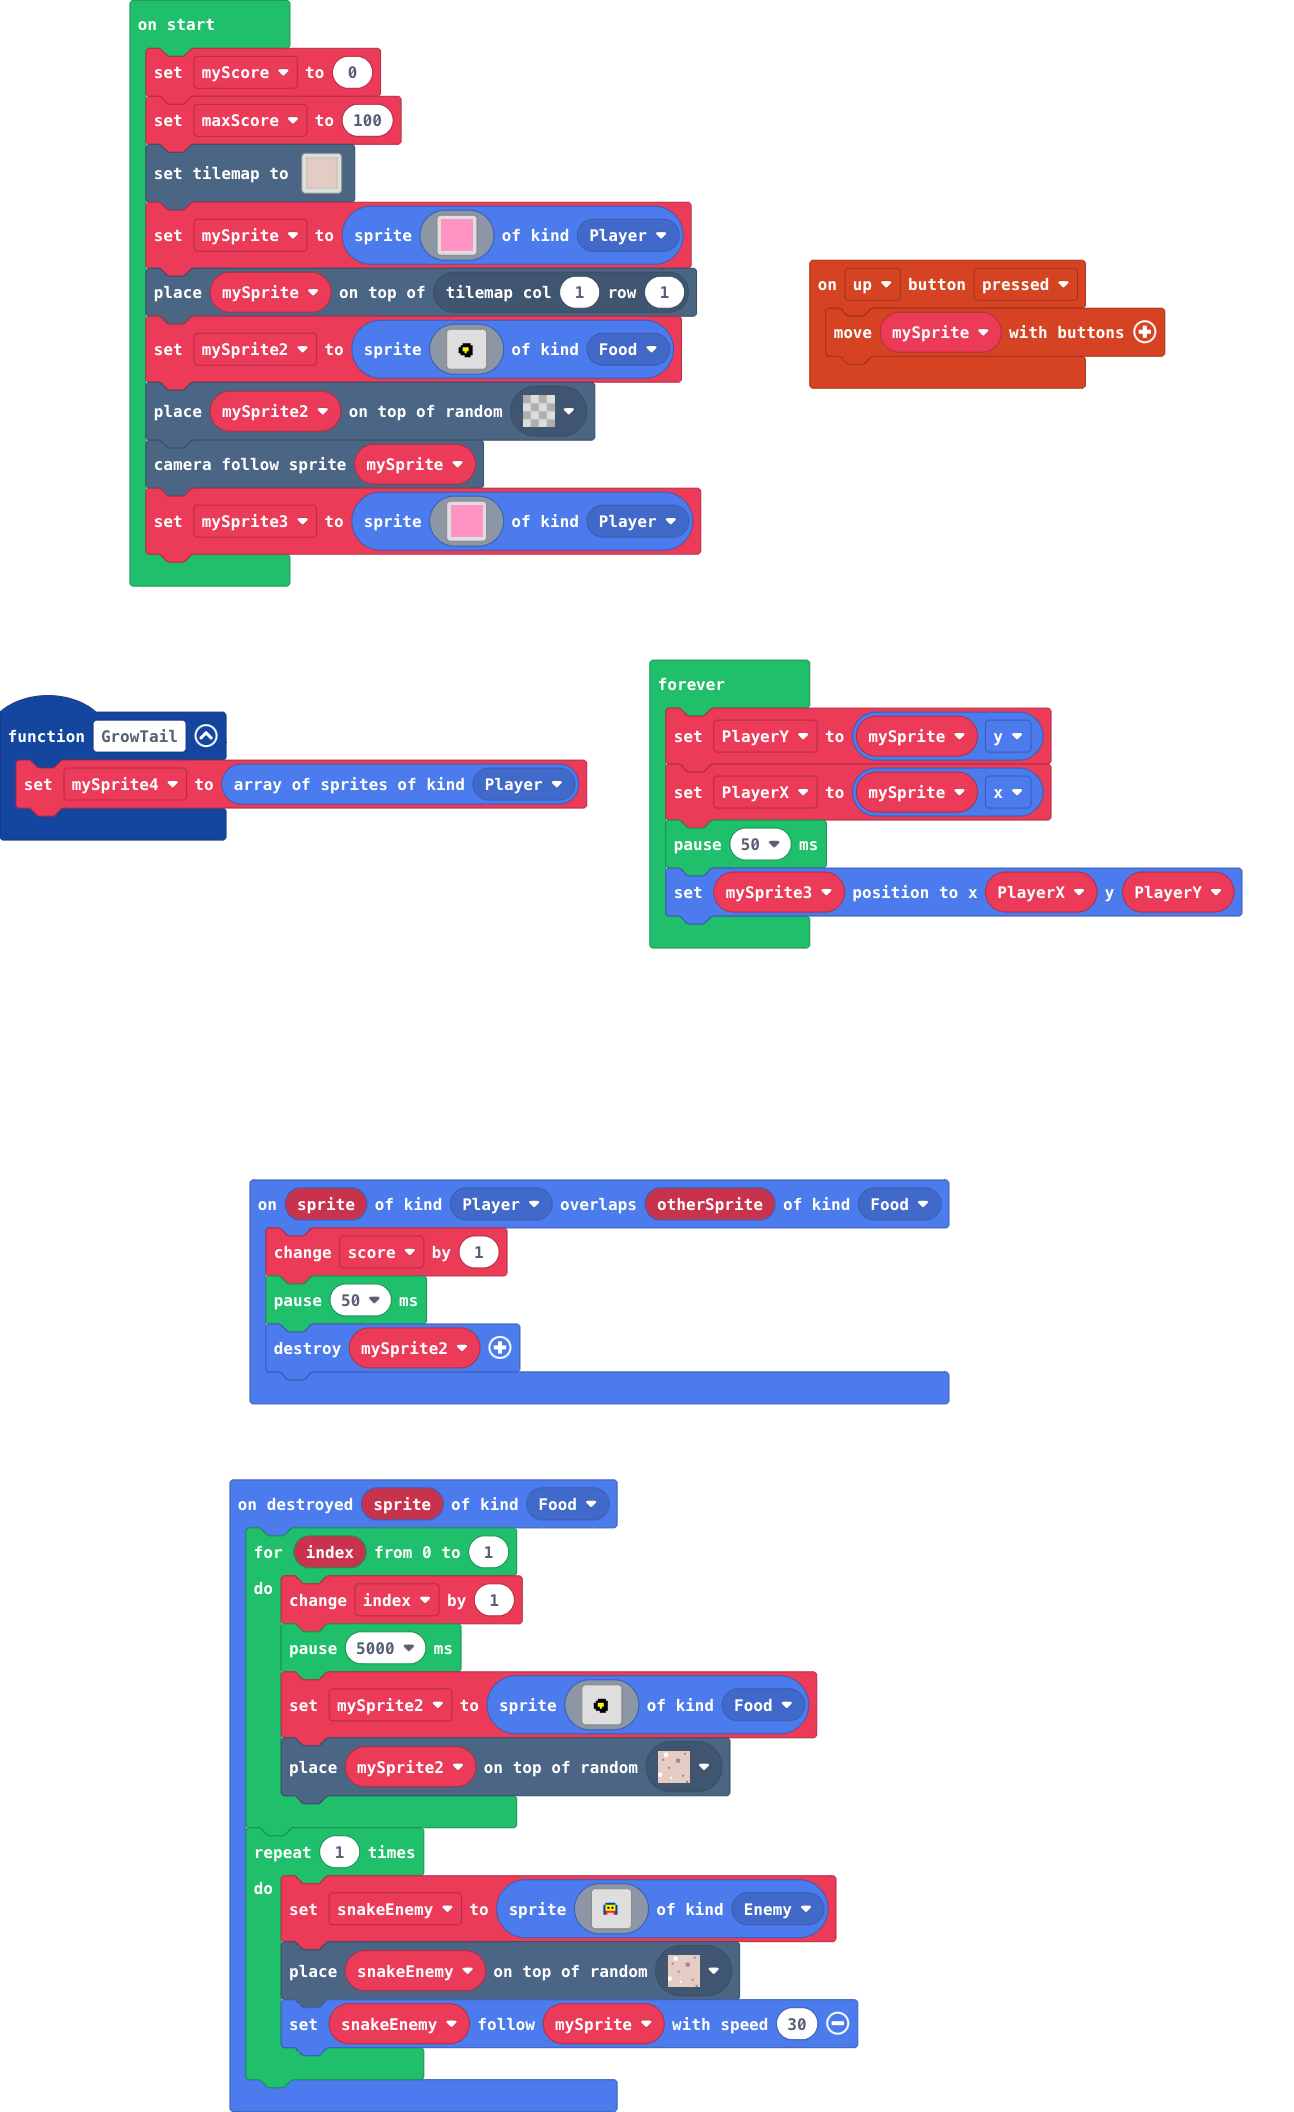
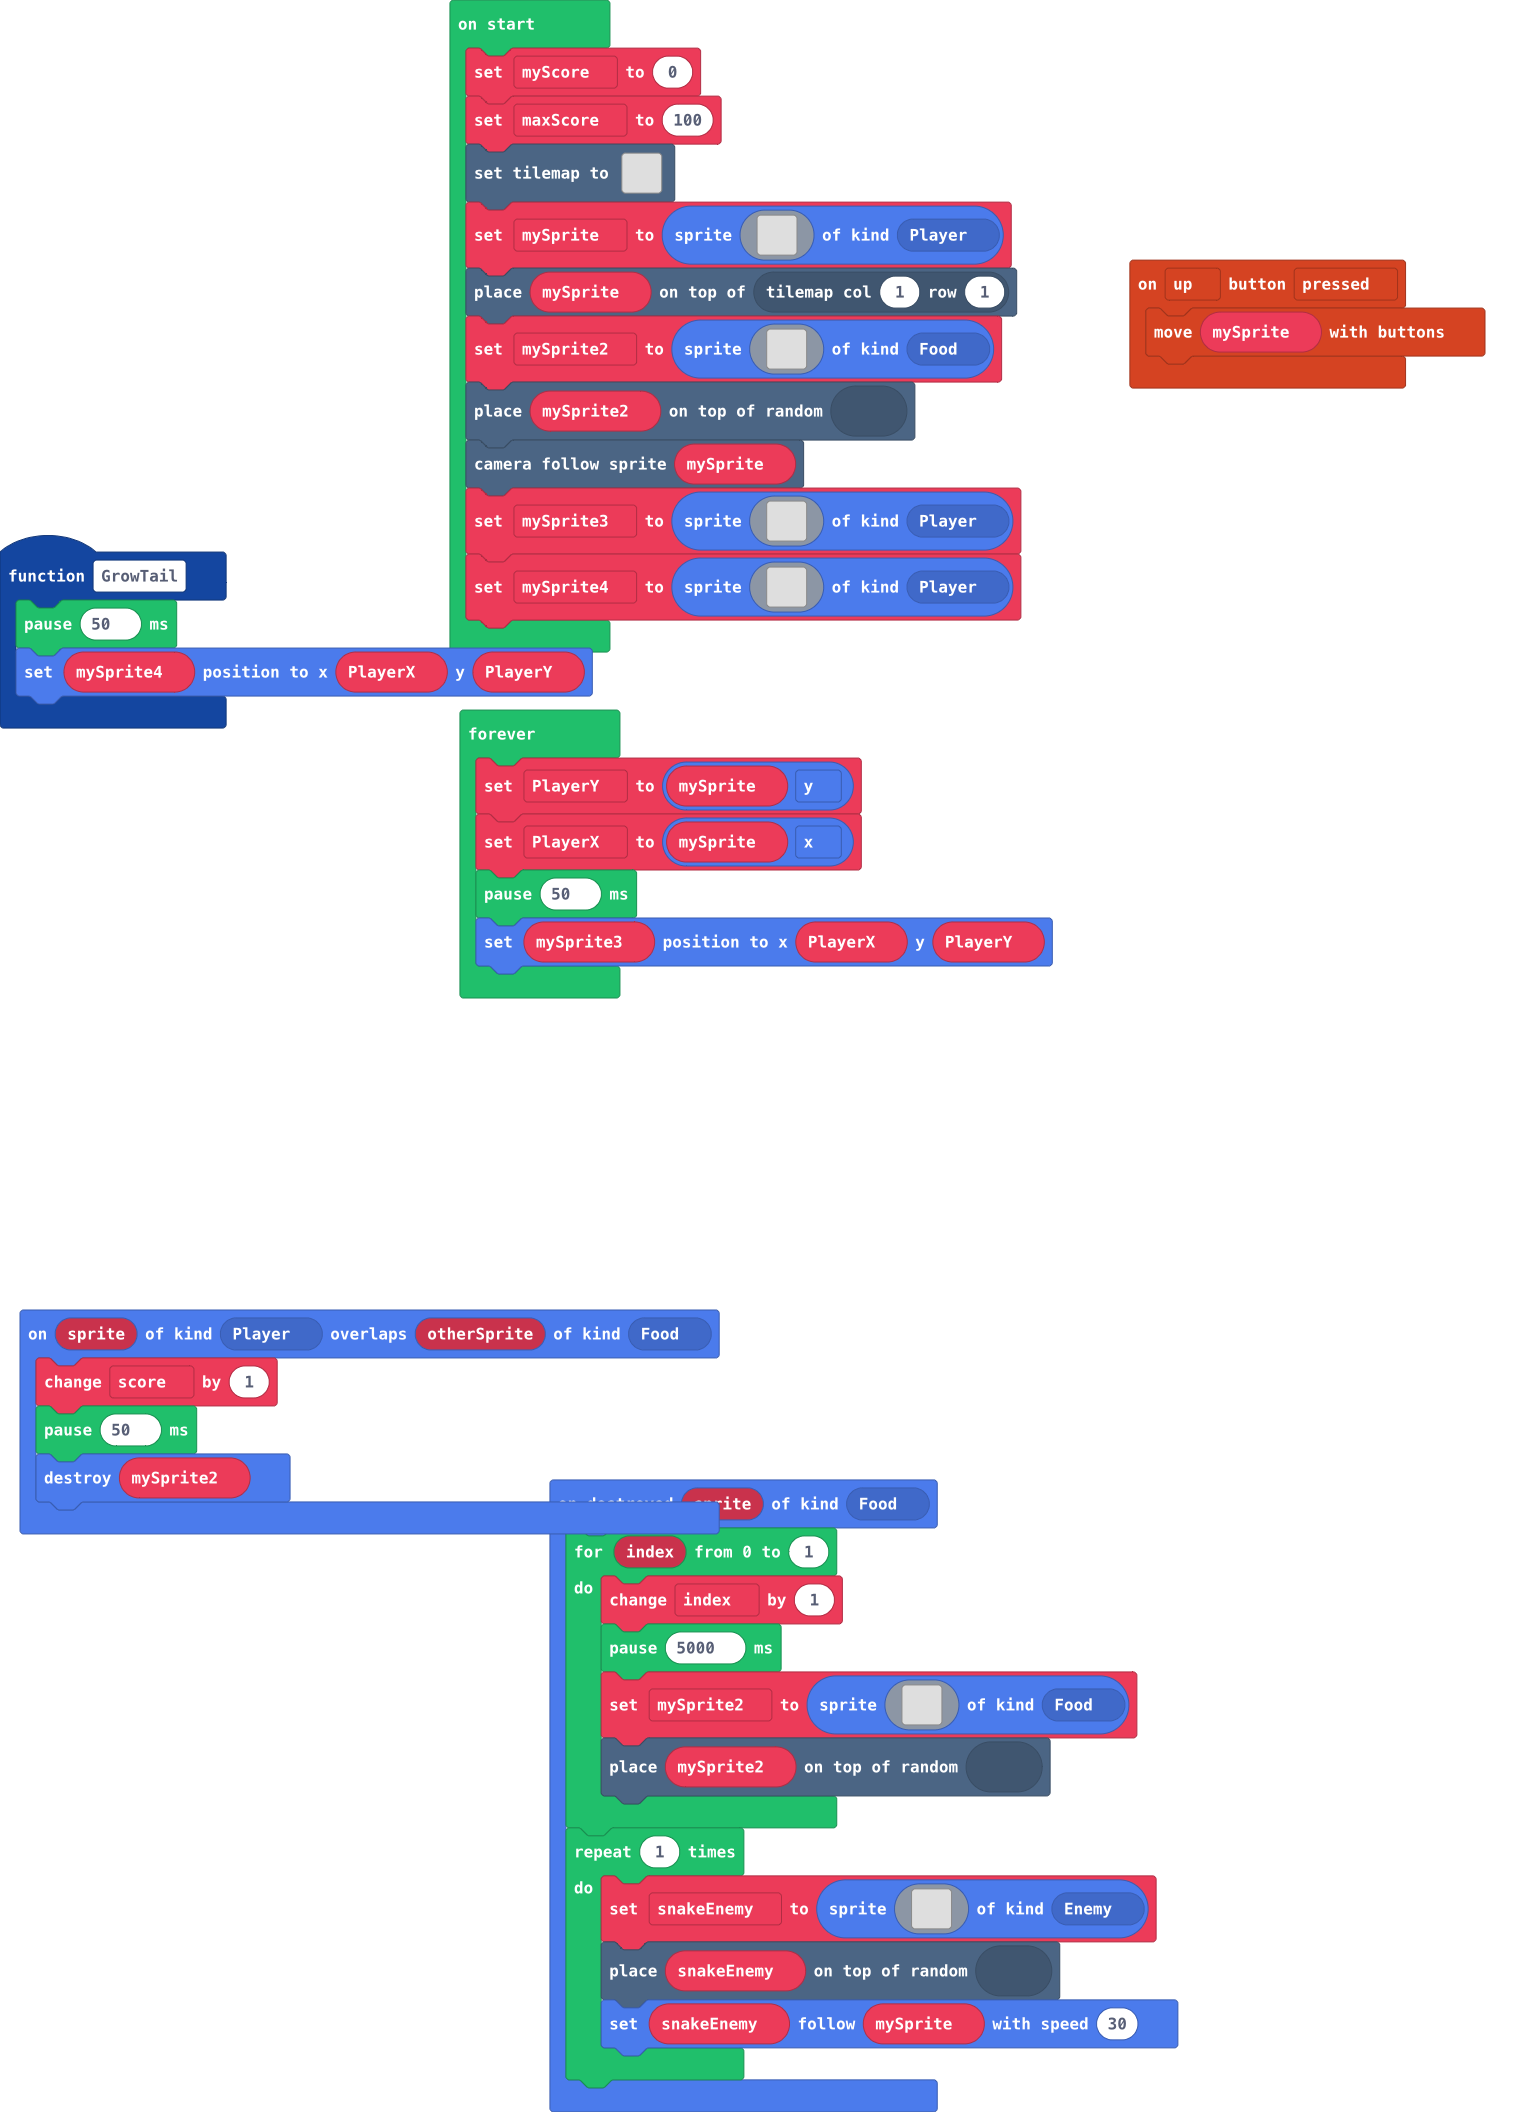
Update main.blocks, main.ts

diff --git a/main.ts b/main.ts
@@ -49,18 +49,19 @@ sprites.onDestroyed(SpriteKind.Food, function (sprite) {
     }
 })
 function GrowTail () {
-    mySprite4 = sprites.allOfKind(SpriteKind.Player)
+    pause(50)
+    mySprite4.setPosition(PlayerX, PlayerY)
 }
 sprites.onOverlap(SpriteKind.Player, SpriteKind.Food, function (sprite, otherSprite) {
     score += 1
     pause(50)
     mySprite2.destroy()
 })
-let PlayerX = 0
-let PlayerY = 0
 let score = 0
-let mySprite4: Sprite[] = []
+let PlayerY = 0
+let PlayerX = 0
 let snakeEnemy: Sprite = null
+let mySprite4: Sprite = null
 let mySprite2: Sprite = null
 let mySprite: Sprite = null
 let myScore = 0
@@ -106,6 +107,24 @@ mySprite2 = sprites.create(img`
 tiles.placeOnRandomTile(mySprite2, assets.tile`transparency16`)
 scene.cameraFollowSprite(mySprite)
 let mySprite3 = sprites.create(img`
+    3 3 3 3 3 3 3 3 3 3 3 3 3 3 3 3 
+    3 3 3 3 3 3 3 3 3 3 3 3 3 3 3 3 
+    3 3 3 3 3 3 3 3 3 3 3 3 3 3 3 3 
+    3 3 3 3 3 3 3 3 3 3 3 3 3 3 3 3 
+    3 3 3 3 3 3 3 3 3 3 3 3 3 3 3 3 
+    3 3 3 3 3 3 3 3 3 3 3 3 3 3 3 3 
+    3 3 3 3 3 3 3 3 3 3 3 3 3 3 3 3 
+    3 3 3 3 3 3 3 3 3 3 3 3 3 3 3 3 
+    3 3 3 3 3 3 3 3 3 3 3 3 3 3 3 3 
+    3 3 3 3 3 3 3 3 3 3 3 3 3 3 3 3 
+    3 3 3 3 3 3 3 3 3 3 3 3 3 3 3 3 
+    3 3 3 3 3 3 3 3 3 3 3 3 3 3 3 3 
+    3 3 3 3 3 3 3 3 3 3 3 3 3 3 3 3 
+    3 3 3 3 3 3 3 3 3 3 3 3 3 3 3 3 
+    3 3 3 3 3 3 3 3 3 3 3 3 3 3 3 3 
+    3 3 3 3 3 3 3 3 3 3 3 3 3 3 3 3 
+    `, SpriteKind.Player)
+mySprite4 = sprites.create(img`
     3 3 3 3 3 3 3 3 3 3 3 3 3 3 3 3 
     3 3 3 3 3 3 3 3 3 3 3 3 3 3 3 3 
     3 3 3 3 3 3 3 3 3 3 3 3 3 3 3 3 
